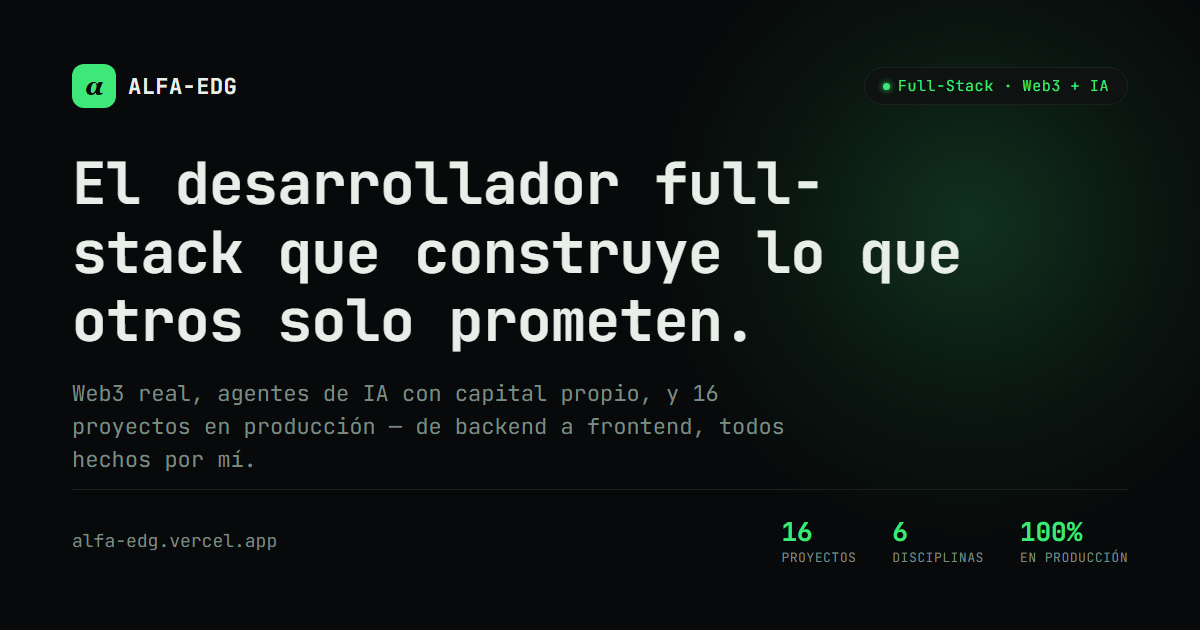
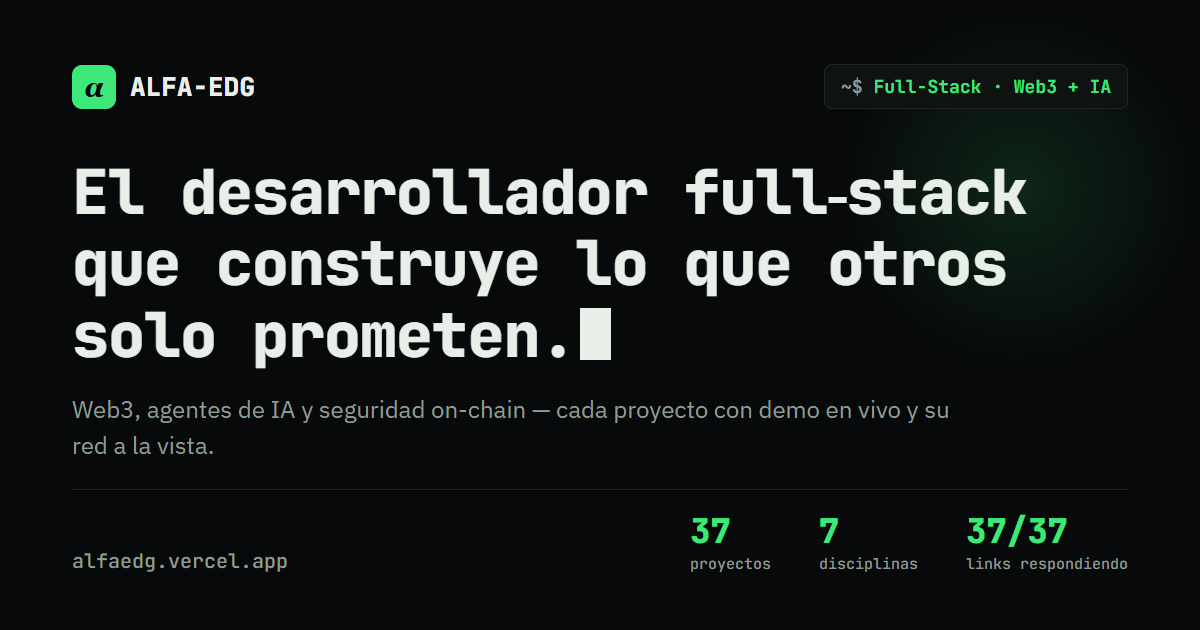
New OG image, README with FIX_NOTES, DESIGN_NOTES and phone checklist

diff --git a/README.md b/README.md
@@ -1,44 +1,95 @@
 # ALFA-EDG
 
-Personal portfolio — Web3 + AI builder. [alfa-edg.vercel.app](https://alfa-edg.vercel.app)
+Personal portfolio — Web3 + AI builder. [alfaedg.vercel.app](https://alfaedg.vercel.app)
 
-A terminal-inspired, dark/light-themed showcase of 16 live projects spanning Web3, AI agents, security tooling, and freelance work. Bilingual (EN/ES), fully client-rendered, no backend.
+A terminal-inspired, dark/light showcase of every project with a live demo: Web3, AI agents, security tooling, commercial Web2 demos and freelance work. Bilingual (ES/EN), fully client-rendered, no backend.
 
 ## Stack
 
 - **React 19** (Create React App) — no router, single-page anchors
-- **framer-motion** for entrance animations, drag-to-scrub, and layout transitions
-- **Plain CSS** with custom properties for theming (`src/index.css` + `src/App.css`) — no Tailwind, no CSS-in-JS
-- **Canvas 2D** for the hero's particle-network background (`components/ParticleNetwork.js`), no WebGL/three.js
-- **i18n** via a lightweight context (`i18n/LanguageContext.js` + `i18n/translations.js`), not a library
+- **framer-motion 13** for interaction springs, the theme-icon swap, the nav indicator and the photo reel
+- **Plain CSS** with design tokens (`src/index.css`) + screen styles (`src/App.css`) + base components (`src/components/ui/`) — no Tailwind, no CSS-in-JS
+- **Canvas 2D** for the particle-network background (`components/ParticleNetwork.js`)
+- **i18n** via a lightweight context (`i18n/LanguageContext.js` + `i18n/translations.js`)
 
 ## Structure
 
 ```
 src/
-  App.js                 # page composition — hero, ethos, field, contact, registry
-  projectsData.js         # the 16 project entries (name, url, tag, description, preview)
+  App.js                   # page composition — hero, ethos, field, contact, registry
+  projectsData.js          # every project (name, url, tag, env, description, preview) + linkCheck
   photosData.js            # "in the field" photo set
-  components/              # PhotoReel, ParticleNetwork, ProjectRow, SocialRail, ErrorBoundary, ...
-  i18n/                    # LanguageContext + translations.js (en/es)
-  hooks/useScrollSpy.js    # nav active-section tracking (position-based, not IntersectionObserver ratios)
+  components/ui/           # Button, Input, Card, Skeleton, EmptyState, ErrorState, Toast, MiddleTruncate
+  components/              # ProjectRow, PhotoReel, ParticleNetwork, SocialRail, ErrorBoundary, ...
+  i18n/                    # LanguageContext + translations.js (es/en)
+  hooks/useScrollSpy.js    # nav active-section tracking
+scripts/
+  build-static-fallback.mjs  # prebuild: no-JS fallback + real project count in meta tags
+  convert-previews.mjs       # PNG screenshots → 640×400 webp
 ```
 
-## Notable implementation details
+## Adding a project
 
-- **Hero photo carousel** crossfades between several photos, each with a tuned `object-position` for its composition.
-- **"In the field" gallery** is a continuously auto-scrolling filmstrip — shuffled on every page load, drag-to-scrub, pauses on interaction, resumes after idle.
-- **Light/dark theme** redefines CSS custom properties under `[data-theme="light"]`; the signal-green accent is darkened one step in light mode to keep text contrast passing, everything else inverts.
-- **Scroll-spy** (`useScrollSpy`) tracks which section's top edge is closest to a fixed viewport line — chosen over `IntersectionObserver` ratio comparisons after those produced ties that silently favored whichever section was listed first.
+1. Add an entry at the **top** of `projects` in `src/projectsData.js` (newest first).
+2. Add `env` only if you know the network for sure (`Stellar testnet`, `Solana devnet`, `Demo · negocio ficticio`…). No `env` is better than a guessed one.
+3. Drop a real 1280×800 screenshot as `src/assets/previews/<slug>.png`, run `node scripts/convert-previews.mjs`, import the webp.
+4. If you re-check every link, update `linkCheck` (date, ok, total) — it's shown in the hero as-is.
 
 ## Run it locally
 
 ```bash
 npm install
-npm start        # dev server at localhost:3000
-npm run build     # production build to /build
+npm start          # dev server at localhost:3000
+npm run build      # runs the prebuild script, then builds to /build
 ```
 
 ## Deploy
 
-Deployed on Vercel (`vercel --prod`). No environment variables required — everything is static/client-side.
+Vercel, manual: `vercel --prod` from this folder (a git push does **not** deploy). It publishes to both Vercel projects linked to this folder; the canonical URL is `https://alfaedg.vercel.app/`.
+
+---
+
+## FIX_NOTES
+
+Audit and repair pass — 2026-09-27. Checked against production at 380px, 320px and 1440px, light and dark.
+
+| Found | Why it mattered | Fix |
+|---|---|---|
+| On phones the sticky nav wrapped into **three rows** (~170px pinned on screen) | Ate a fifth of the viewport on every scroll | Section links became a bottom tab bar (icon + label, safe-area inset); the top bar is one row |
+| Text at **9.6px** (stat labels), 11px stamps and counts; card copy at 14px | Unreadable on a phone; body under 16px | Type scale tokens: body 16px, nothing below 12px (audited in the DOM) |
+| Category filters 40px tall, brand link 28px | Below the 44px touch target | Every link/button measured ≥ 44px |
+| Sections started at **opacity 0** until an IntersectionObserver fired; stats started at "0" and counted up | Content hidden until scroll; screenshots/crawlers saw zeros | Removed scroll reveals and count-up; only a 300ms CSS entrance on the hero |
+| "Producción, no demos — every project is deployed **and in use**" and a **100% in production** stat | Not true: many projects run on testnet/devnet, the Web2 entries are fictional-business demos | Copy now says "live demos, not mockups"; each card shows its real network; the stat is "37/37 links responding" with the check date |
+| Meta description / OG image said **16 projects**; OG, sitemap and robots pointed at the other domain; no canonical | Stale and inconsistent sharing previews | Canonical + OG/Twitter on `alfaedg.vercel.app`; a prebuild script writes the real count; new OG image |
+| Blank page without JavaScript | Nothing to read or crawl | Prebuild writes a `<noscript>` version with contact and all 37 projects |
+| 14 cards had **no preview** (WIP, MongliZone, 12 Web2 demos) | Uneven grid | Real screenshots of each live site |
+| Particle background: 110 nodes on phones, O(n²) per frame, never paused | Battery drain and visual noise over text | 36 nodes on phones, pauses on hidden tab, static with reduced motion, re-reads the theme color |
+| Scroll-spy kept the last section highlighted back at the top | Nav lied about where you were | Clears when no section is under the line |
+| Hero title's blinking cursor wrapped alone onto an empty line; "full-stack" split at the hyphen | Awkward gap in the hero | Cursor bound to the last word; non-breaking hyphen |
+| Hero glow cut off in a hard vertical line on desktop | Visible seam | Gradient ends inside its own box |
+| Photo reel shifted 34px right on desktop (rail padding) | Overflowed the viewport | Compensated offset |
+| ErrorBoundary: hardcoded colors, no retry | Dead end if the app crashes | ErrorState with cause, fix, retry and direct contact |
+| Text arrows (← → ↑) as icons | Font-dependent glyphs | SVG icons with the same stroke as the rest |
+| `dl` stats with `dd` before `dt`; h1 → h3 jump in the ethos block | Invalid markup / skipped heading level | Valid `dt`/`dd`; ethos gets its h2 |
+
+## DESIGN_NOTES
+
+- **Identity kept, not replaced.** The site already had a system — terminal "signal green" on a near-black void, JetBrains Mono, category colors as ANSI codes, the α mark. This pass turns it into tokens and completes it rather than restyling.
+- **Three typefaces, three jobs.** JetBrains Mono ExtraBold for display (the brand's terminal voice), **IBM Plex Sans** for body copy (long project descriptions were hard to read set in mono), JetBrains Mono for data: networks, domains, counts, index numbers.
+- **The one detail only this site has:** every card carries a `$ net Stellar testnet` / `Solana devnet` / `Demo · negocio ficticio` chip — the real network is the content, and it keeps the claims honest. Domains are shown in mono, truncated in the middle.
+- **Tokens:** color (dark + light designed together; every text/background pair computed ≥ 4.5:1 — the tightest is 4.86:1), radius (4–16px + pill), shadow scale (3 steps + glow), spacing in 4px steps, type scale 12/14/16/18/20/24/32 + a clamped display size, motion durations and z-index layers. Components use tokens only.
+- **Category accents** get a darker variant in light mode so the tag labels still pass contrast on white.
+- **Cards not cloned:** accent border per category, network chip, domain line; ethos cards are numbered `01/03` and the first one carries the signal border.
+- **Motion:** springs for anything touched (buttons, tabs, nav indicator via `layoutId`, theme icon swap); a single 300ms entrance on load; the hero photo crossfade is the one ambient motion. Everything collapses to a static scene under `prefers-reduced-motion`. Only `transform`/`opacity` are animated (the scroll bar uses `scaleX`).
+- **Mobile nav:** bottom tab bar ≤ 640px because the top row cannot fit brand + 3 labeled links + 2 toggles at 320px with 44px targets; it's reachable with the thumb and respects the home-indicator inset.
+
+## Checklist de 2 minutos en el celular
+
+1. Abre https://alfaedg.vercel.app en el celular. La barra de arriba es **una sola fila** (logo, sol/luna, idioma) y abajo hay tres pestañas: Proyectos, Contacto, Fotos.
+2. Toca **Proyectos** abajo: baja al registro y la pestaña se marca en verde. Toca otra y la línea verde se mueve.
+3. Desliza de lado a lado en cualquier parte: la página **no** debe moverse horizontalmente.
+4. En el registro, la primera tarjeta es **FYV Box** y la segunda **SEPuente**; cada una dice `$ net Stellar testnet`.
+5. Toca el filtro **Web2**: aparecen 12 demos, cada una con `Demo · negocio ficticio`.
+6. Toca el sol/luna: cambia de tema y todo sigue legible. Toca **EN**: cambia el idioma.
+7. Baja al fondo: el botón de volver arriba queda **encima** de la barra inferior, no tapado por ella.
+8. Toca **WhatsApp** en Contacto: abre el chat.
